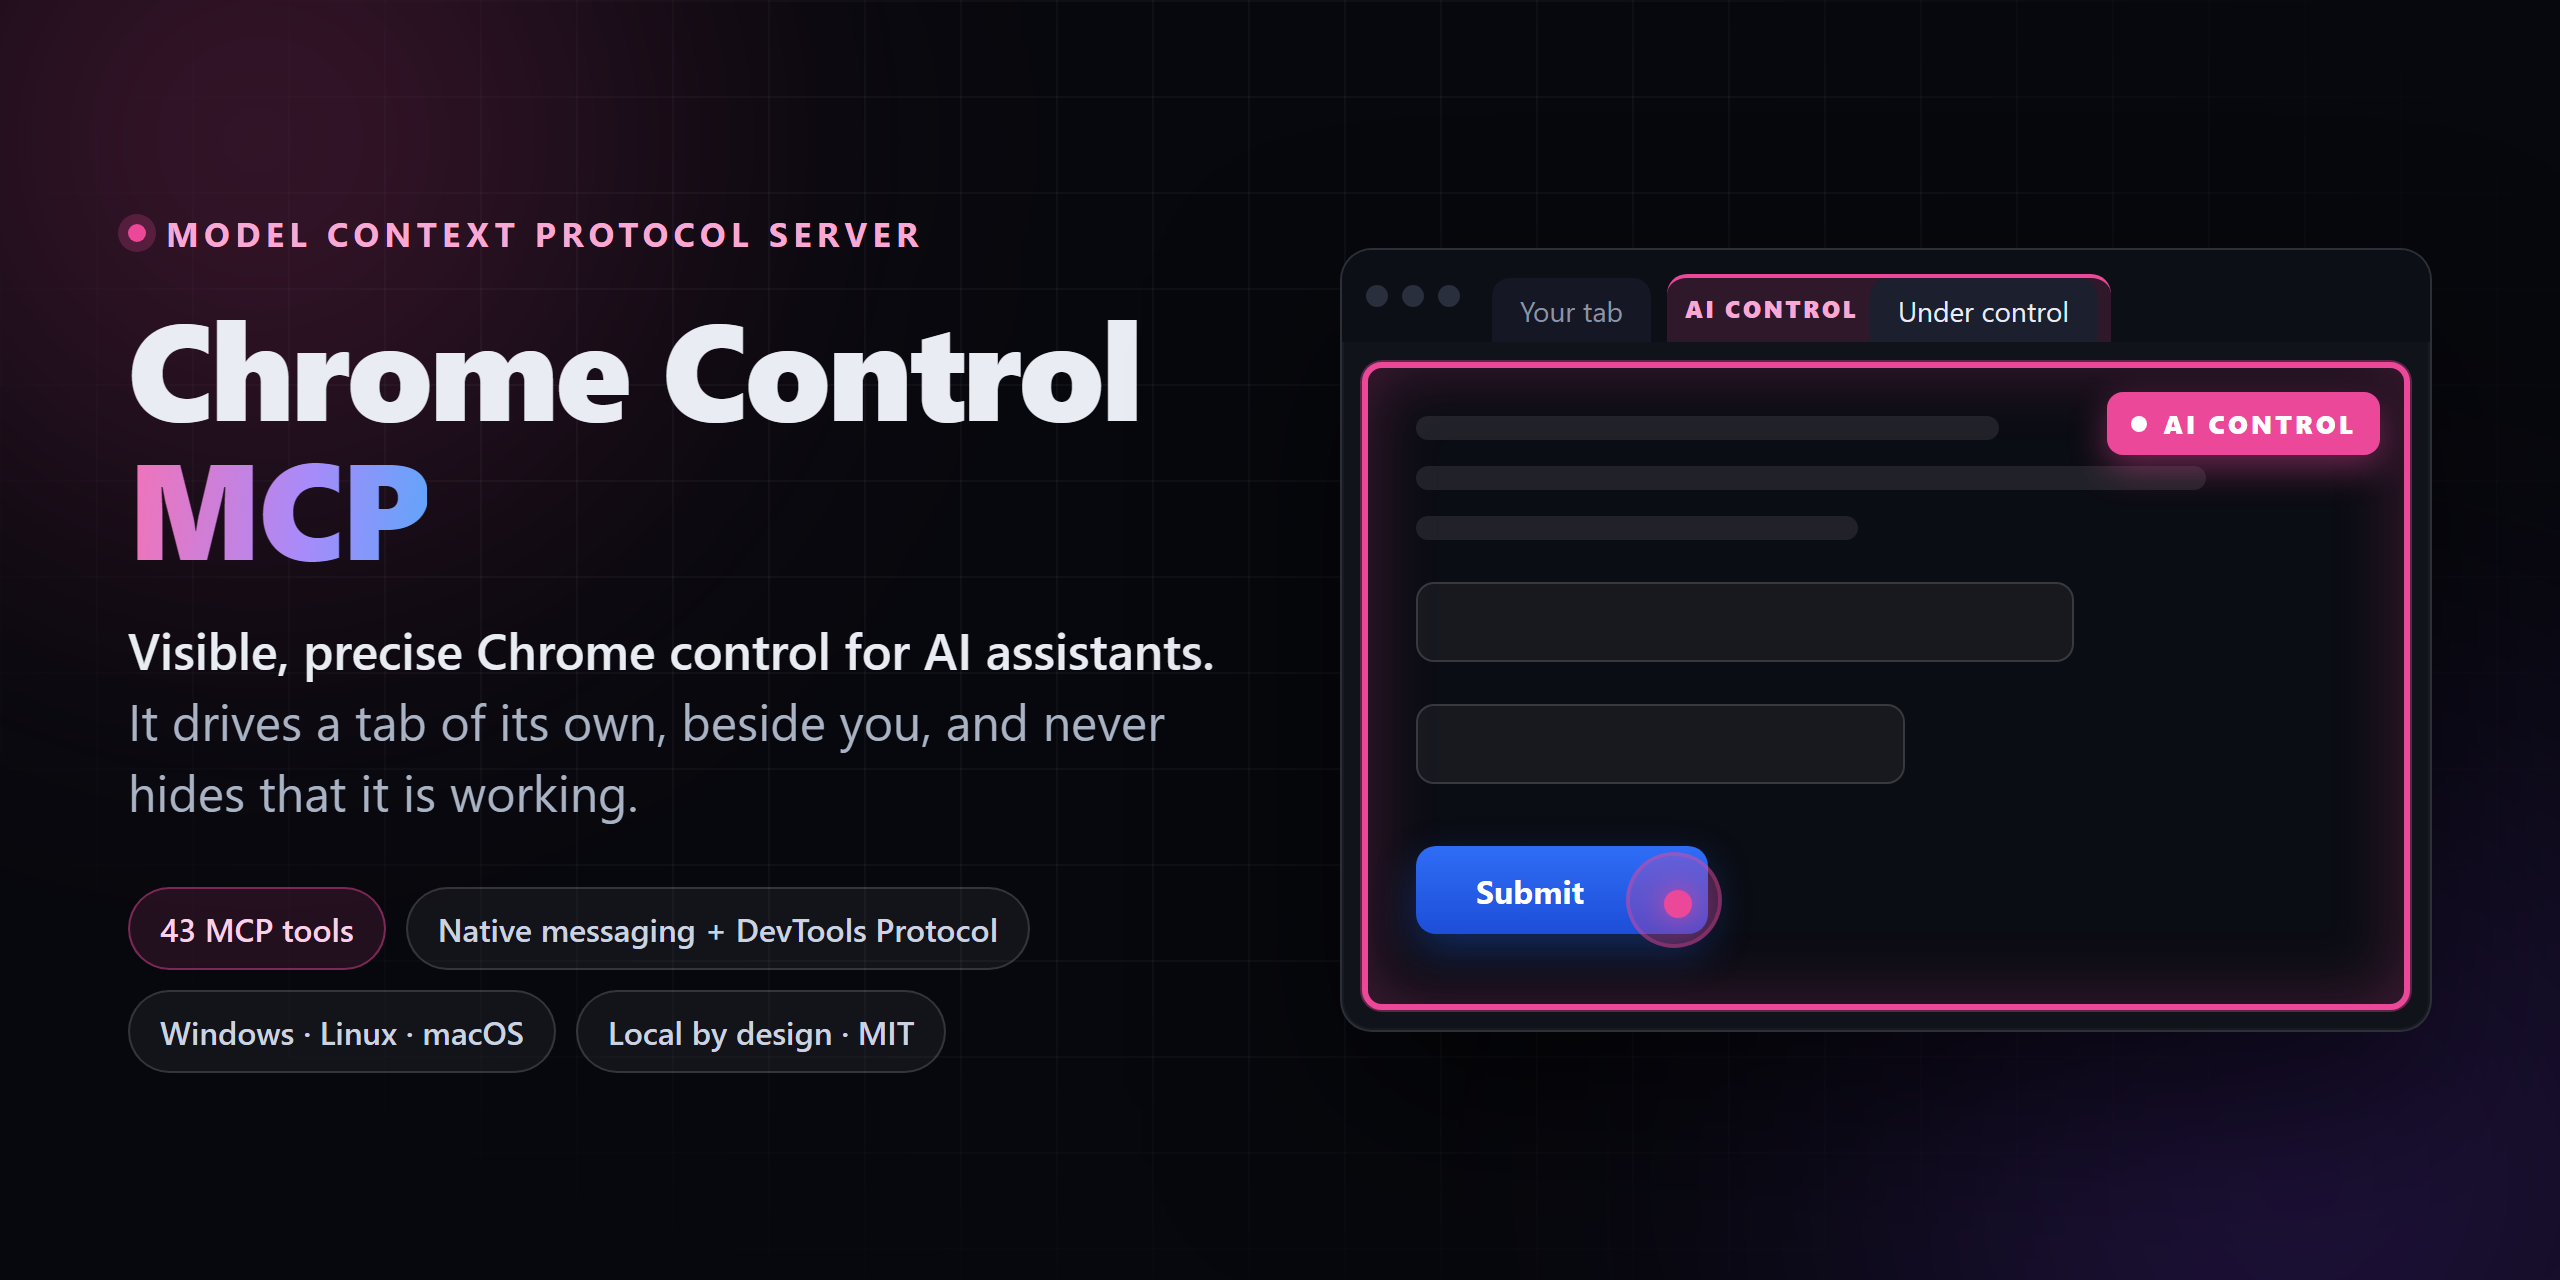
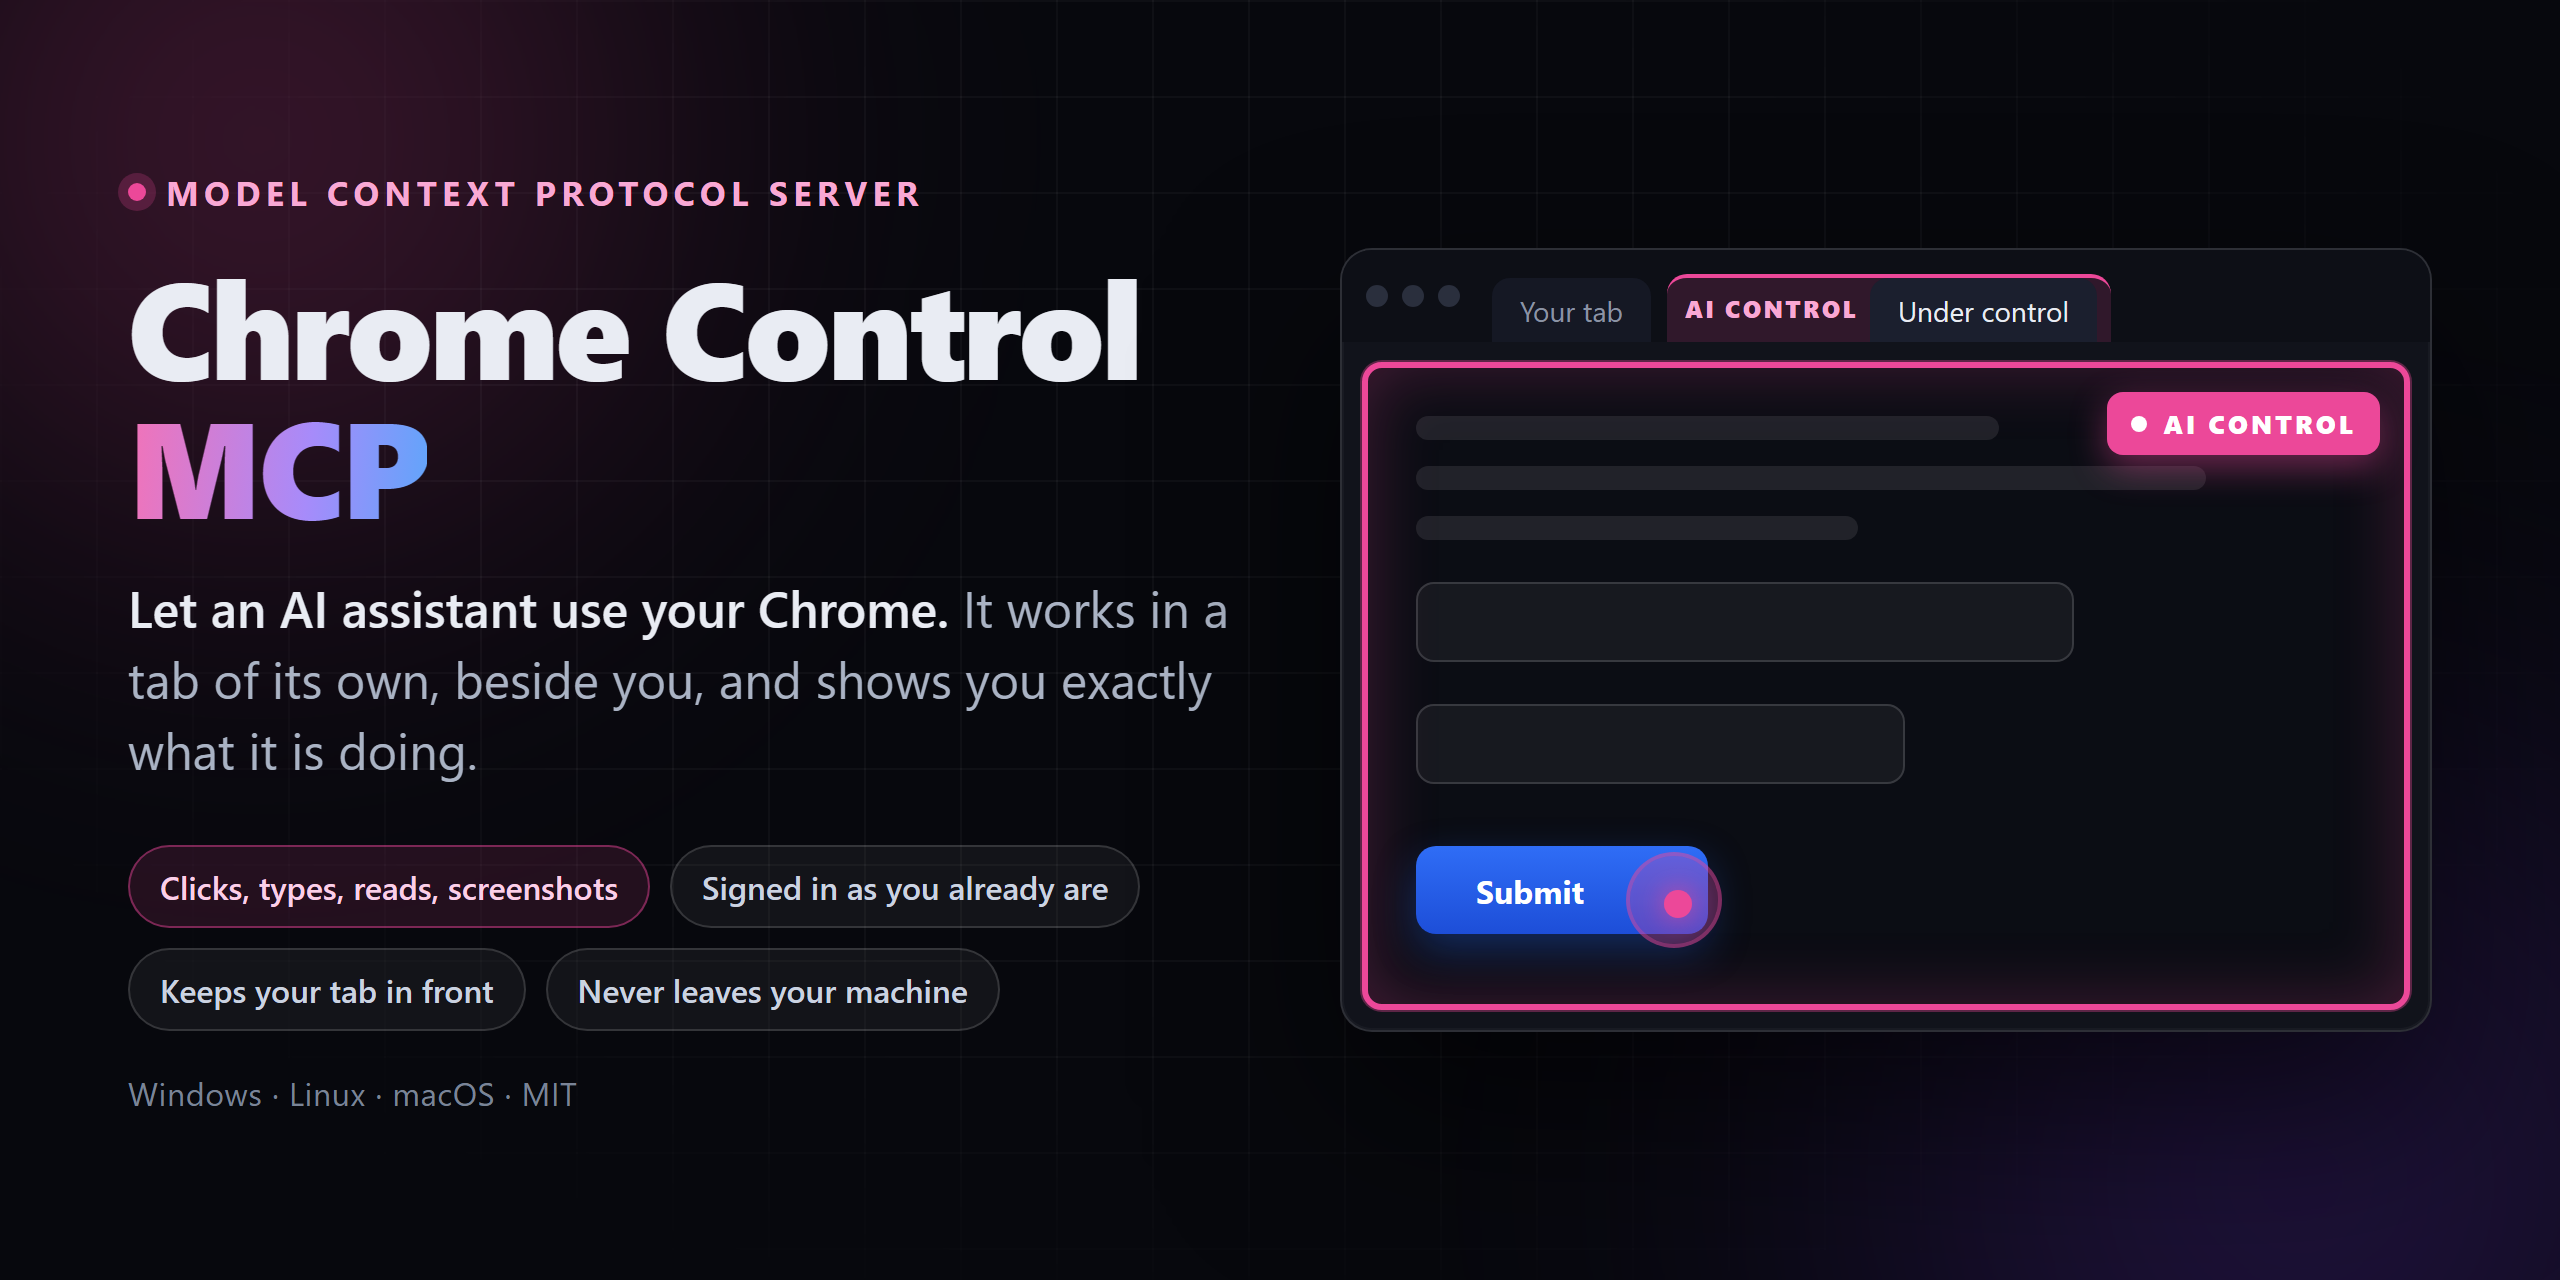
Say what the preview's subject does, not how much of it there is
"43 MCP tools" answers a question nobody browsing a repository card is asking.
The chips now say what the thing does for the person reading: it clicks, types,
reads and screenshots; it is already signed in as they are; it keeps their tab in
front; nothing leaves their machine. Platform and licence drop to a quiet line
underneath, and the headline leads with the offer rather than the category.

Changed region(s): [[0.0312, 0.4688, 0.4688, 0.875], [0.0312, 0.2188, 0.4688, 0.4375], [0.0312, 0.125, 0.375, 0.1875]]

diff --git a/docs/assets/social-preview.html b/docs/assets/social-preview.html
@@ -44,6 +44,7 @@
     border: 1px solid rgba(255,255,255,.14); background: rgba(255,255,255,.05);
     border-radius: 999px; padding: 9px 15px; white-space: nowrap;
   }
+  .platforms { margin-top: 20px; font-size: 16px; color: #7a8497; letter-spacing: .02em; }
   .chip.pink { color: #fbcfe8; border-color: rgba(236,72,153,.45); background: rgba(236,72,153,.12); }
 
   /* the browser, with the product's own control presence drawn on it */
@@ -99,13 +100,14 @@
     <div class="left">
       <div class="eyebrow"><span class="dot"></span>Model Context Protocol server</div>
       <h1>Chrome Control <span class="accent">MCP</span></h1>
-      <p class="tag"><b>Visible, precise Chrome control for AI assistants.</b> It drives a tab of its own, beside you, and never hides that it is working.</p>
+      <p class="tag"><b>Let an AI assistant use your Chrome.</b> It works in a tab of its own, beside you, and shows you exactly what it is doing.</p>
       <div class="chips">
-        <span class="chip pink">43 MCP tools</span>
-        <span class="chip">Native messaging + DevTools Protocol</span>
-        <span class="chip">Windows · Linux · macOS</span>
-        <span class="chip">Local by design · MIT</span>
+        <span class="chip pink">Clicks, types, reads, screenshots</span>
+        <span class="chip">Signed in as you already are</span>
+        <span class="chip">Keeps your tab in front</span>
+        <span class="chip">Never leaves your machine</span>
       </div>
+      <div class="platforms">Windows · Linux · macOS · MIT</div>
     </div>
     <div class="browser">
       <div class="tabstrip">
